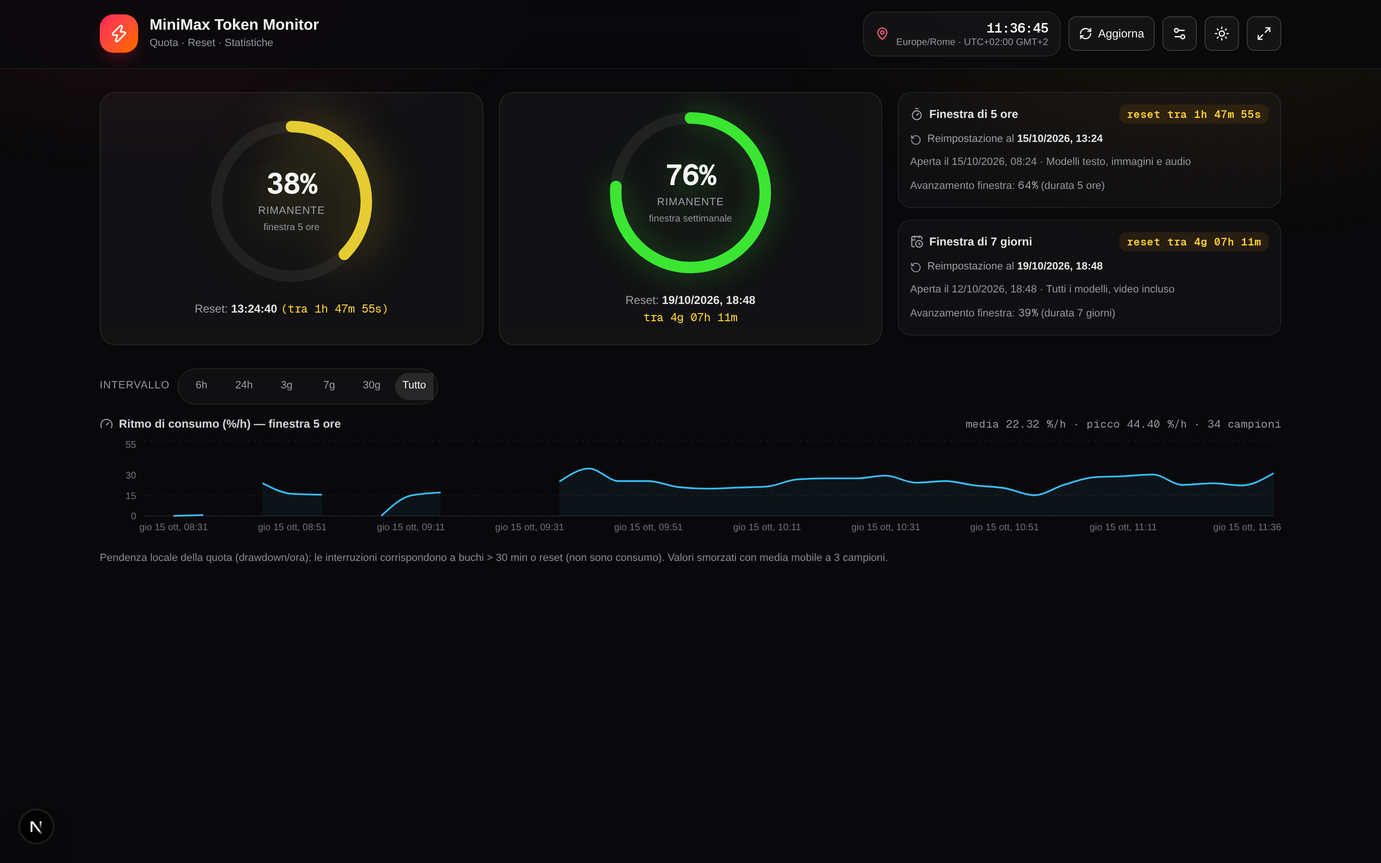
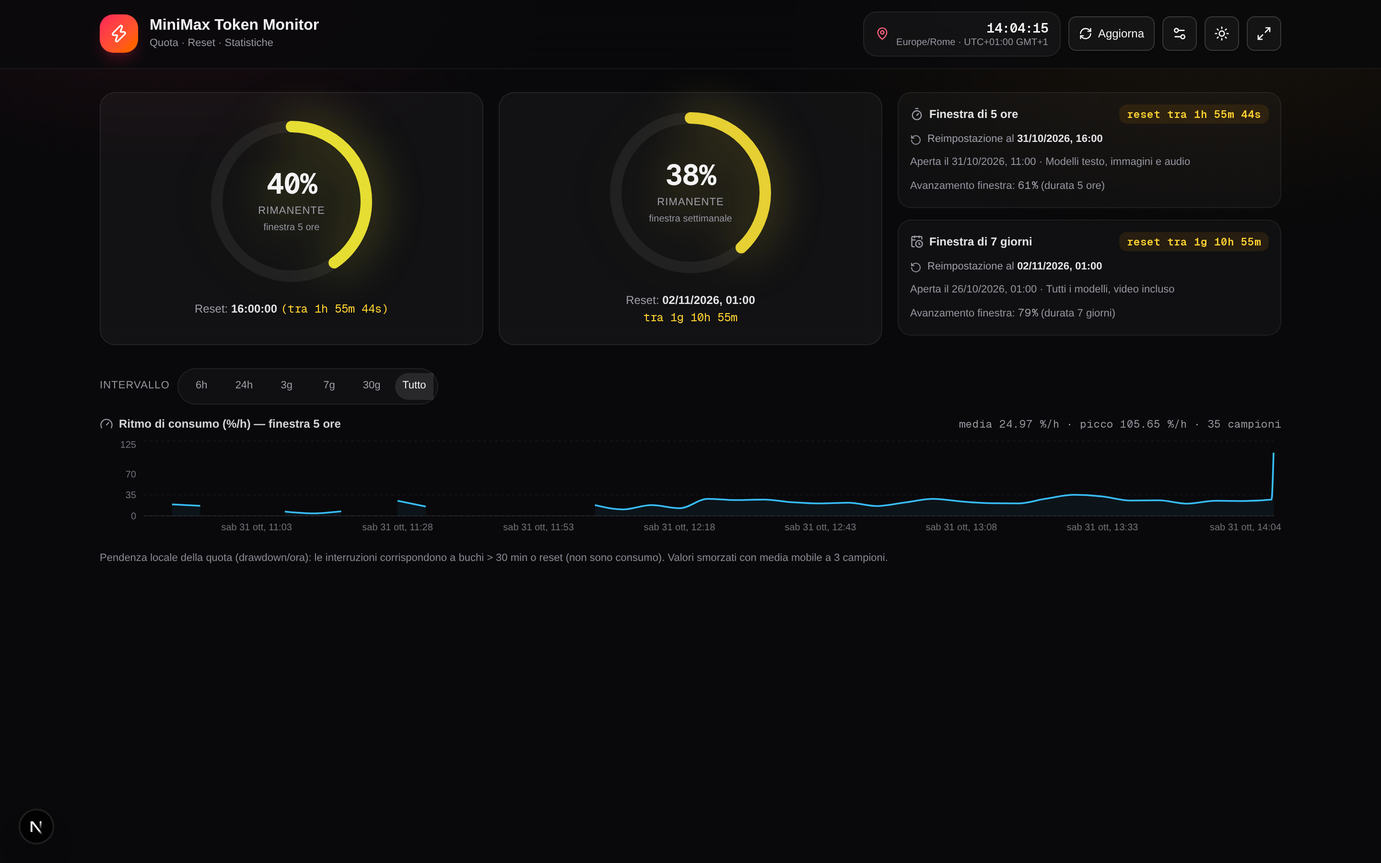
I134 — asset visivi del README allineati a I133: rigenerazione I126-aware + screenshot kiosk. RICHIESTA UTENTE: «verifica se è necessario aggiornare gli screenshot presenti all'interno del readme del progetto per allinearli alle funzionalità attuali del progetto» + «procedi con tutte 4 le proposte».

diff --git a/src/lib/version.ts b/src/lib/version.ts
@@ -12,4 +12,4 @@
  *
  * Formato: «AAAA-MM-GG · I<n>» dove I<n> è l'ultimo item implementato/documentato.
  */
-export const APP_VERSION = "2026-10-31 · I133";
+export const APP_VERSION = "2026-10-31 · I134";

diff --git a/scripts/github-assets.py b/scripts/github-assets.py
@@ -1,10 +1,24 @@
 #!/usr/bin/env python3
-"""Asset visivi per il README GitHub (Task 41).
+"""Asset visivi per il README GitHub (Task 41; rigenerati Task 48; adattati I134).
 
-- Contesto browser FRESH = localStorage vuoto = modalita' DEMO (dati sintetici, sicuri da pubblicare).
-- Rotte API bloccate (ADR-8 + prudenza): usage proxy, history, events, summary -> nessun dato reale
-  ne' scritture durante la cattura.
-- Screenshot retina (dsf=2) in docs/assets/, frame del tour GIF (dsf=1) in scripts/gif-frames/.
+I134 — due adattamenti all'evoluzione dell'app:
+1. DEMO OPT-IN (I126): dal 20/10 un contesto browser FRESH NON mostra più la demo
+   (era il presupposto della cattura originale) ma la scheda di configurazione
+   («Inserisci la chiave» / «Prova la demo»). Ogni passata ora CLICCA «Prova la
+   demo» e verifica il badge «dati simulati» PRIMA di catturare: la demo resta
+   una scelta esplicita, anche nelle catture.
+2. CATTURA KIOSK (I87/I132/I133): nuova passata su `/?kiosk=1` con lo stato
+   kiosk seminato in localStorage (rotazione attiva, 30 s) — lo screenshot
+   `modalita-kiosk.png` mostra la barra «Rotazione tra schermate» con il
+   countdown «prossima schermata tra Ns» e l'hint del ciclo.
+
+Invariato (Task 41/48):
+- Contesto browser FRESH = localStorage vuoto → scheda I126 → click demo (dati
+  sintetici, sicuri da pubblicare; nessuna chiave reale mai inserita).
+- Rotte API bloccate (ADR-8 + prudenza): usage proxy, history, events, summary
+  → nessun dato reale ne' scritture durante la cattura.
+- Screenshot retina (dsf=2) in docs/assets/, frame del tour GIF (dsf=1) in
+  scripts/gif-frames/.
 """
 import asyncio
 from pathlib import Path
@@ -15,6 +29,14 @@ ROOT = Path("/home/z/my-project")
 OUT = ROOT / "docs" / "assets"
 TMP = ROOT / "scripts" / "gif-frames"
 BASE = "http://localhost:3000"
+
+# Stato kiosk seminato (chiave di src/lib/kiosk.ts): rotazione attiva a 30 s
+# per mostrare nella cattura countdown I132 e hint I133 del ciclo automatico.
+KIOSK_SEED = (
+    "try{localStorage.setItem('mm-dash-kiosk-v1',"
+    " JSON.stringify({enabled:true,rotation:true,rotationSeconds:30,nightDim:false}))"
+    "}catch(e){}"
+)
 
 # ADR-8 / prudenza: nessuna chiamata a proxy, archivio, eventi, summary durante la cattura
 BLOCK = [
@@ -28,6 +50,37 @@ BLOCK = [
 async def block_all(ctx):
     for pat in BLOCK:
         await ctx.route(pat, lambda r: asyncio.ensure_future(r.abort()))
+
+
+async def attiva_demo(page, contesto: str) -> bool:
+    """I126: attiva la demo con un click esplicito sulla scheda di setup.
+
+    Il rilevamento usa il BOTTONE «Prova la demo»: la copia della scheda I126
+    contiene lei stessa «dati simulati» («…oppure prova la modalità demo con
+    dati simulati»), quindi il testo del body da solo non certifica nulla.
+    Se il bottone esiste la demo NON è attiva e va cliccato; se è assente, il
+    badge «dati simulati» dell'header distingue la demo attiva da una pagina
+    inattesa. Restituisce True se la demo risulta attiva a fine chiamata.
+    """
+    # I126: `needsSetup` richiede `mounted` — una prima lettura può cadere sullo
+    # skeleton SSR: due tentativi con attesa coprono l'idratazione del client.
+    setup = page.get_by_role("button", name="Prova la demo")
+    for _ in range(2):
+        if await setup.count() > 0:
+            print(f"[{contesto}] scheda di setup I126 presente — click su «Prova la demo»")
+            await setup.first.click(timeout=15000)
+            await page.wait_for_timeout(5000)  # generazione demo I125 + count-up anelli
+            body = await page.inner_text("body")
+            ok = "dati simulati" in body
+            print(f"[{contesto}] badge «dati simulati» dopo il click: {ok}")
+            return ok
+        await page.wait_for_timeout(2500)
+    body = await page.inner_text("body")
+    if "dati simulati" in body:
+        print(f"[{contesto}] demo già attiva (badge presente, nessun bottone di setup) — nessun click")
+        return True
+    print(f"[{contesto}] ATTENZIONE: né scheda di setup né badge demo — pagina inattesa")
+    return False
 
 
 async def main():
@@ -48,10 +101,11 @@ async def main():
         page = await ctx.new_page()
 
         await page.goto(BASE, wait_until="networkidle")
+        await attiva_demo(page, "dashboard")
         await page.wait_for_timeout(5000)  # count-up anelli + generazione demo
 
         body = await page.inner_text("body")
-        print("DEMO MODE presente nel body:", "demo" in body.lower())
+        print("DEMO MODE presente nel body:", "dati simulati" in body)
         print("Titolo pagina:", await page.title())
 
         await page.screenshot(path=str(OUT / "hero-dashboard.png"))
@@ -65,12 +119,43 @@ async def main():
             await page.screenshot(path=str(OUT / f"sezione-{sec}.png"))
             print(f"OK sezione-{sec}.png")
 
-        # modalita' compatta (widget)
+        # modalita' compatta (widget) — STESSO CONTESTO della dashboard: la demo
+        # è già stata attivata con il click I126 (settings salvati nel localStorage
+        # del contesto). Il widget compact non mostra né scheda di setup né badge:
+        # il probe affidabile è il CONTENUTO (le finestre principali del widget I73;
+        # durante lo skeleton SSR «Finestra di 5 ore» non è ancora nel body).
         await page.goto(BASE + "/?compact=1", wait_until="networkidle")
         await page.wait_for_timeout(4500)
+        body_c = await page.inner_text("body")
+        print("COMPACT widget «Finestra di 5 ore» presente:", "Finestra di 5 ore" in body_c)
         await page.screenshot(path=str(OUT / "modalita-compatta.png"))
         print("OK modalita-compatta.png")
         await ctx.close()
+
+        # ---------- PASSATA 1-bis (I134): modalità kiosk/TV (dsf=2) ----------
+        # Stato kiosk seminato PRIMA del load: rotazione attiva → la barra mostra
+        # «Rotazione tra schermate», il countdown «prossima schermata tra Ns» (I132)
+        # e l'hint del ciclo automatico (I133): la vista più rappresentativa.
+        ctx_k = await browser.new_context(
+            viewport={"width": 1440, "height": 900},
+            device_scale_factor=2,
+            locale="it-IT",
+            timezone_id="Europe/Rome",
+        )
+        await ctx_k.add_init_script(KIOSK_SEED)
+        await block_all(ctx_k)
+        page_k = await ctx_k.new_page()
+
+        await page_k.goto(BASE + "/?kiosk=1", wait_until="networkidle")
+        await attiva_demo(page_k, "kiosk")
+        await page_k.wait_for_timeout(6000)  # demo + count-up + countdown visibile
+
+        body_k = await page_k.inner_text("body")
+        print("KIOSK barra «Rotazione tra schermate»:", "Rotazione tra schermate" in body_k)
+        print("KIOSK countdown «prossima schermata tra»:", "prossima schermata tra" in body_k)
+        await page_k.screenshot(path=str(OUT / "modalita-kiosk.png"))
+        print("OK modalita-kiosk.png")
+        await ctx_k.close()
 
         # ---------- PASSATA 2: tour GIF (dsf=1) ----------
         ctx2 = await browser.new_context(
@@ -82,6 +167,7 @@ async def main():
         await block_all(ctx2)
         pg = await ctx2.new_page()
         await pg.goto(BASE, wait_until="networkidle")
+        await attiva_demo(pg, "gif")
         await pg.wait_for_timeout(5000)
 
         height = await pg.evaluate("document.documentElement.scrollHeight")

diff --git a/docs/04-stato-avanzamento.md b/docs/04-stato-avanzamento.md
@@ -220,6 +220,7 @@ F7 persistenza storico server (I16) · F8 persistenza eventi (I27).
 | I131 | Sparkline per le righe di evoluzione (usabilità al crescere del campione) | Usabilità | ✅ | Eseguita 20/10 su «procedi con sparkline» (autorizzazione al suggerimento formulato a chiusura I130: «sparkline al posto delle chip testuali se i punti crescono» — lo step che l'utente aveva rinviato con «poi valuteremo l'altro step successivamente»). **La proposta**: le righe di evoluzione (I128 indice, I129 ritmo/spreco, I130 consumo) mostrano le chip «n → valore» troncate agli ULTIMI 8 punti con «…» — al crescere del campione la storia si perde dietro l'ellipsis e la sequenza di numeri è illeggibile d'un fiato; una sparkline mostra la FORMA di tutta la serie a colpo d'occhio. **Implementazione lib**: NUOVO `src/lib/sparkline.ts` con `puntiSparkline(values, w, h, pad)` — funzione PURA (testabile senza DOM) che normalizza su min/max con y INVERTITA (l'origine del sistema di coordinate SVG è in ALTO a sinistra: invertire il segno è l'errore classico che disegna la serie al contrario); serie piatta (min === max) → tutti i punti a metà altezza (una media costante è una lettura legittima, non un errore); meno di 2 punti → array vuoto (una retta non è una forma; le righe hanno comunque il gate ≥2). **Implementazione UI**: componente `Sparkline` in analysis-panel.tsx — svg inline 96×24 (allineata al testo 11px delle righe), polilinea + ultimo punto cerchiato, `currentColor` per ereditare il tono della riga (indice colorato per soglia ≥70/≥40, medie neutre), aria-label/title con la serie COMPLETA dei valori esatti che le chip mostravano (i valori intermedi restano accessibili a hover e screen reader). Le DUE righe (`PrevedibilitaEvoLine` e `EvoluzioneMediaLine`) sostituiscono le chip troncate con la sparkline e conservano la chip FINALE «n → valore» col punto corrente esatto + ultimo Δ + salti max: nessuna informazione persa, nessun troncamento. **Test +4** (NUOVO tests/lib/sparkline.test.ts, valori chiusi verificati a mano: normalizzazione [0,50,100] → x 2/48/94 e y 22/12/2 con y invertita; serie piatta [5,5,5,5] → y = h/2 = 12 con x ancora distribuita; 0 e 1 punto → array vuoto; viewport custom 200×40 pad 5 su [70,92,48] → x 5/100/195 e y 20/5/35 — il PRIMO punto non è né in alto né in basso: la scala è min/max, NON primo/ultimo come sarebbe con start−end) → suite **633/633** (2300 asserzioni). Audit +4 check I131 → **667/667** PASS 0 scoperte. DOCS: docs/04 §3+§8, docs/06 §5.7 nota I131, README (badge/contatori/§Analisi/§Qualità), versione «2026-10-20 · I131»; worklog Task 84 |
 | I132 | Kiosk: rotazione sempre visibile + countdown del timer (bug «il flag rotazione non ha alcun effetto») | Correzione | ✅ | Eseguita 31/10 su «controlla e fixa» (bug riportato dall'utente in due messaggi: «nella modalità kiosk il flag rotazione con timer non ha alcun effetto» e, dopo il test «con la finestra in foreground», «non accadeva nulla»). **Diagnosi con riproduzioni reali** (dev locale + produzione via browser automation, profilo pulito): la logica del timer I87 è CORRETTA — l'effetto `setInterval` con `nextKioskView` cambia vista davvero (Quote → Grafico → Analisi osservate su entrambi gli ambienti). **La causa**: il branch kiosk era DENTRO il ternario `snapshot ?`: senza snapshot in memoria (primo fetch in corso, errore API, quota esaurita, dispositivo senza chiave) l'area centrale ereditava i rami loading/null della dashboard — spinner o PAGINA VUOTA — e lo stato `kioskView` cambiava ma lo schermo no: la rotazione sembrava morta. **Fix 1 — kiosk sempre vivo**: il branch `kioskAttivo` sale di livello (dopo `!mounted`, prima di `snapshot ?`) con stato d'attesa dedicato «Kiosk attivo — in attesa dei dati» (spinner se `loading`, spiegazione altrimenti); le viste compaiono da sole al primo dato, la rotazione e i comandi della barra restano attivi in ogni stato. **Fix 2 — countdown del timer**: nuovo stato `prossimaRotazione` (epoch del prossimo cambio vista, armato dal microtask iniziale dell'effetto — pattern I90, mai setState sincrono in corpo d'effetto — e riprogrammato a ogni tick dell'intervallo, così il countdown resta veritiero anche dopo un cambio vista manuale che NON riparte); `CountdownRotazione` in kiosk-bar.tsx è una foglia VIVA abbonata all'orologio 1 Hz I96 (la pagina non re-renderizza al secondo): «prossima vista tra 12s» dà il riscontro continuo che prima mancava del tutto con intervalli fino a 5 minuti. **Lib**: `intervalloRotazioneMs` + `prossimaRotazioneEpoch` estratti dal `Math.max(5, …)` inlinea I87 con `KIOSK_ROTATION_MIN_SECONDS=5`. **Test +7** (NUOVO tests/lib/kiosk-rotazione.test.ts: ms sui 5 valori del selettore, clamp su 0/negativi/2, matematica chiusa dell'epoch, coerenza now+intervallo; +3 in kiosk-bar.test.tsx: countdown armato → «prossima vista tra \d+s», scadenza null → assente, rotazione spenta → assente) → suite **640/640** (2325 asserzioni). Audit +4 check I132 → **671/671** PASS 0 scoperte. DOCS: docs/04 §3+§8, docs/03 (mappa file kiosk), README (badge/contatori/§Monitoraggio), versione «2026-10-31 · I132»; worklog Task 85 |
 | I133 | Kiosk: selettore rotazione più comprensibile («Rotazione tra schermate», hint del funzionamento, title sull'intervallo) | Usabilità | ✅ | Eseguita 31/10 su richiesta esplicita dell'utente («nella modalità kiosk adesso scriverei rotazione tra schermate, rotazioni tra visuali al posto di rotazione. rendi più comprensibile il funzionamento del selettore e poi aggiorna la documentazione»). **Il problema**: l'etichetta era il solo «Rotazione» — non diceva CHE COSA ruotasse (le schermate Quote → Grafico → Analisi) né cosa succedesse con lo switch spento; l'ordine di rotazione non compariva da nessuna parte nella UI. **Implementazione** (SOLO testi della barra, zero logica toccata): etichetta visibile «Rotazione tra schermate»; hint visibile NEI DUE STATI — con rotazione attiva «ciclo automatico: Quote → Grafico → Analisi, poi ricomincia» (l'informazione che mancava: cosa ruota, in che ordine, che si ripete), con rotazione spenta «rotazione spenta: cambio schermata solo coi bottoni» (distingue il solo cambio manuale) — nascosto sugli schermi stretti (xl:inline) come le altre etichette; selettore dell'intervallo con aria-label «Intervallo di rotazione delle schermate» e title «Ogni quanto cambia la schermata durante la rotazione automatica»; switch con aria-label che dichiara l'ordine «Rotazione automatica tra le schermate (Quote → Grafico → Analisi)»; gruppo dei bottoni manuali «Schermata kiosk» (era «Vista kiosk»); countdown I132 allineato a «prossima schermata tra Ns» (era «prossima vista tra»); stato d'attesa dati e commenti di page.tsx con la stessa terminologia. **Terminologia unificata**: «schermata» (= le visuali Quote, Grafico, Analisi) per coprire entrambe le locuzioni della richiesta. **Test +4** (I133 in kiosk-bar.test.tsx: etichetta esplicita + aria-label switch; hint ciclo con rotazione attiva e assenza hint «spento»; hint spento con rotazione off e assenza hint di ciclo; title del selettore) + allineamento dei test I87/I132 alle nuove etichette → suite **644/644** (2332 asserzioni). Audit +5 check I133 → **676/676** PASS 0 scoperte. DOCS: docs/04 §3+§8, docs/03 (mappa kiosk), README (badge/contatori/§Funzionalità/§Qualità), versione «2026-10-31 · I133»; worklog Task 86 |
+| I134 | Asset visivi del README allineati a I133: cattura I126-aware + screenshot kiosk | Documentazione | ✅ | Eseguita 31/10 su «procedi con tutte 4 le proposte» (autorizzazione alle 4 proposte formulate a chiusura della verifica «verifica se è necessario aggiornare gli screenshot presenti all'interno del readme del progetto per allinearli alle funzionalità attuali»). **La verifica**: asset catturati il 15/10 alle 09:36 (versione I106, commit 268c257) contro una produzione a I133 — 27 consegne di scarto; conferma visiva sui PNG: dati demo pre-I125 (finestra 5h aperta 08:24, reset 13:24:20, curva liscia senza reset ai confini), tabella cicli senza colonna «Reset finestra» (I124), nessuna strip Prevedibilità con base dichiarata (I127) né evoluzioni/sparkline (I128–I131), nessuna immagine del kiosk (I87/I132/I133); badge e contatori testuali del README invece già allineati. **Il problema nascosto**: lo script di cattura era ROTTO da I126 — il presupposto «browser fresco = demo» non vale più (scheda di setup al primo avvio): rieseguito così com'è avrebbe prodotto 5 screenshot della scheda. **Implementazione** (solo script di cattura + asset: nessun src/ toccato salvo il marcatore di versione): (1) attiva_demo() con click esplicito su «Prova la demo» e verifica del badge «dati simulati» dopo il click — il badge da solo NON basta: la copia della scheda I126 contiene lei stessa «dati simulati» (primo run beccato: «demo già attiva» con la scheda in scatto); doppio tentativo per l'idratazione (needsSetup richiede mounted — secondo run beccato: compact caduto sullo skeleton SSR); (2) compact nello STESSO contesto già in demo (viaggio utente reale: opt-in una volta, poi widget) con probe sul contenuto («Finestra di 5 ore» — il widget non mostra né scheda né badge); (3) NUOVA cattura modalita-kiosk.png con stato kiosk seminato via add_init_script (rotazione attiva a 30 s) e verifica nel body di «Rotazione tra schermate» (I133) e «prossima schermata tra» (I132) prima dello scatto; (4) rigenerati 5 PNG retina (hero, grafico, analisi, diagnostica, compatta) + demo.gif riassemblata (19 frame, 896 KB), cattura definitiva rieseguita DOPO il bump versione (la barra kiosk e il footer mostrano APP_VERSION) e verificata a vista: reset demo al blocco fisso UTC 16:00:00 con curva a sega (I125), verdetto «Al ritmo della finestra in corso» (I127), barra kiosk completa (I132/I133). **Nota I124**: in demo l'analisi di lungo periodo mostra lo stato vuoto PER COSTRUZIONE (punti demo esclusi da tutte le analisi) — la didascalia README lo dichiara. Nessun dato reale: rotte API bloccate (ADR-8), nessuna chiave, nessuna scrittura su produzione. Audit +3 check I134 → **679/679** PASS; suite invariata 644/644 (2332 asserzioni); worklog Task 87 |
 
 ---
 
@@ -325,6 +326,7 @@ F7 persistenza storico server (I16) · F8 persistenza eventi (I27).
 
 | Data | File | Cambiamento |
 |------|------|-------------|
+| 2026-10-31 | `scripts/github-assets.py` (attiva_demo I126-aware: click «Prova la demo» + badge con doppio tentativo di idratazione; compact nello stesso contesto demo con probe sul contenuto; cattura kiosk con stato seminato e verifica barra/countdown), `docs/assets/` (5 PNG retina + NUOVO `modalita-kiosk.png` + `demo.gif` 19 frame, tutti rigenerati e verificati a vista), `README.md` (§Screenshot: riga kiosk + nota I124 sull'analisi vuota in demo; badge audit 676→679; §Qualità 679 + presidio I134), `scripts/verifiche/audit-implementazioni.mjs` (+3 check I134), `docs/04` (§3+§8), `src/lib/version.ts` (2026-10-31 · I134), `worklog.md` (Task 87) | **I134 — asset visivi del README allineati a I133** (verifica utente «verifica se è necessario aggiornare gli screenshot presenti all'interno del readme» + autorizzazione «procedi con tutte 4 le proposte»): gli asset erano fermi a I106 (15/10) — 27 consegne di scarto — e lo script di cattura era rotto da I126 (browser fresco = scheda di setup, non più demo); ora ogni cattura attiva la demo con un click esplicito e il kiosk I87/I132/I133 ha la sua immagine con barra, hint del ciclo e countdown; in demo l'analisi resta volutamente vuota (I124) e la didascalia lo dichiara. Solo script + asset + docs: nessun src/ toccato salvo il marcatore di versione |
 | 2026-10-31 | `src/components/kiosk-bar.tsx` (etichetta «Rotazione tra schermate» al posto del solo «Rotazione»; hint del funzionamento nei due stati: «ciclo automatico: Quote → Grafico → Analisi, poi ricomincia» / «rotazione spenta: cambio schermata solo coi bottoni»; SelectTrigger con aria-label «Intervallo di rotazione delle schermate» + title esplicativo; switch con aria-label «Rotazione automatica tra le schermate (Quote → Grafico → Analisi)»; gruppo manuale «Schermata kiosk»; countdown «prossima schermata tra Ns»), `src/app/page.tsx` (stato d'attesa dati e commenti con terminologia «schermata»), `src/lib/kiosk.ts` (commento campo rotation), `tests/components/kiosk-bar.test.tsx` (+4 test I133 + allineamento testi I87/I132), `scripts/verifiche/audit-implementazioni.mjs` (+5 check I133, contatori 640/2325→644/2332, badge test-644_pass), `README.md` (badge test 640→644 e audit 671→676, §Funzionalità +nota I133, §Qualità 644/2332 + presidio I133), `docs/03` (mappa kiosk), `src/lib/version.ts` (2026-10-31 · I133), `worklog.md` (Task 86) | **I133 — kiosk: selettore rotazione più comprensibile** (richiesta utente «scriverei rotazione tra schermate, rotazioni tra visuali al posto di rotazione. rendi più comprensibile il funzionamento del selettore e poi aggiorna la documentazione»). Il selettore ora spiega se stesso: cosa ruota (le schermate/visuali Quote → Grafico → Analisi), in che ordine, che si ripete, e cosa succede quando è spento (solo cambio manuale); title esplicativo sull'intervallo, terminologia «schermata» unificata in tutta la barra; ZERO logica toccata — solo testi, aria-label e title |
 | 2026-10-31 | `src/lib/kiosk.ts` (`KIOSK_ROTATION_MIN_SECONDS=5` + `intervalloRotazioneMs` + `prossimaRotazioneEpoch` — helper puri estratti dal clamp inlinea I87), `src/app/page.tsx` (stato `prossimaRotazione` armato da microtask I90 e riprogrammato a ogni tick; branch `kioskAttivo` FUORI dal ternario `snapshot ?` con stato d'attesa «Kiosk attivo — in attesa dei dati» + spinner se loading), `src/components/kiosk-bar.tsx` (prop `prossimaRotazione` + `CountdownRotazione` foglia 1 Hz I96: «prossima vista tra Ns», visibile solo con rotazione attiva), `tests/lib/kiosk-rotazione.test.ts` (NUOVO, +4 test), `tests/components/kiosk-bar.test.tsx` (+3 test I132), `scripts/verifiche/audit-implementazioni.mjs` (+4 check I132, contatori 633/2300→640/2325, badge test-640_pass), `README.md` (badge test 633→640 e audit 667→671, §Monitoraggio +nota I132, §Qualità 640/2325), `docs/03` (mappa file kiosk aggiornata), `src/lib/version.ts` (2026-10-31 · I132), `worklog.md` (Task 85) | **I132 — kiosk: rotazione sempre visibile + countdown del timer** (bug utente «il flag rotazione con timer non ha alcun effetto», test anche «con la finestra in foreground»). Diagnosi con riproduzioni reali (dev + produzione, browser automation): il timer I87 FUNZIONA (viste osservate ruotare su entrambi gli ambienti con profilo pulito); il difetto era il branch kiosk DENTRO `snapshot ?` — senza snapshot (primo fetch, errore API, quota esaurita, dispositivo senza chiave) l'area centrale restava spinner/NULL e `kioskView` cambiava a schermo fermo. Fix: branch kiosk promosso prima di `snapshot ?` con stato d'attesa dedicato + countdown del timer nella barra come riscontro continuo (fino a ieri assente del tutto) |
 | 2026-10-20 | `src/lib/sparkline.ts` (NUOVO: `puntiSparkline` — geometria pura normalizzata su min/max con y invertita, serie piatta a metà, <2 punti → vuoto), `src/components/analysis-panel.tsx` (componente `Sparkline` svg 96×24 inline con polilinea + ultimo punto cerchiato, currentColor, aria-label/title con la serie completa; `PrevedibilitaEvoLine` e `EvoluzioneMediaLine` sostituiscono le chip troncate a 8 con sparkline + chip finale «n → valore», slice(-8) e «…» rimossi), `tests/lib/sparkline.test.ts` (NUOVO, +4 test), `scripts/verifiche/audit-implementazioni.mjs` (+4 check I131, contatori 629/2288→633/2300, badge test-633_pass), `README.md` (badge test 629→633 e audit 663→667, §Analisi +nota I131, §Qualità 633/2300), `src/lib/version.ts` (2026-10-20 · I131), `worklog.md` (Task 84) | **I131 — sparkline per le righe di evoluzione**. Su «procedi con sparkline» (autorizzazione allo step rinviato a chiusura I130). Le quattro righe di evoluzione non troncano più la serie a 8 chip con «…»: la forma di TUTTI i punti si legge nella sparkline, il valore corrente esatto resta nella chip finale e i valori intermedi nell'aria-label. Geometria pura testata: y invertita (origine SVG in alto), serie piatta a metà altezza, scala min/max e non primo/ultimo (presidiata in test) |

diff --git a/README.md b/README.md
@@ -15,7 +15,7 @@ quote live, countdown di reset, analisi d'uso e avvisi, con tutti gli orari nel 
 [![CI](https://github.com/amedeo82/MiniMax-Token-Monitor/actions/workflows/ci.yml/badge.svg)](https://github.com/amedeo82/MiniMax-Token-Monitor/actions/workflows/ci.yml)
 [![Live Demo](https://img.shields.io/badge/Live_Demo-online-2EA44F?logo=vercel&logoColor=white)](https://minimax-token-monitor.vercel.app/)
 [![Test 644 pass](https://img.shields.io/badge/test-644_pass-31C48D)](tests)
-[![Audit 676 PASS](https://img.shields.io/badge/audit-676_PASS-31C48D)](scripts/verifiche)
+[![Audit 679 PASS](https://img.shields.io/badge/audit-679_PASS-31C48D)](scripts/verifiche)
 [![PWA offline-first](https://img.shields.io/badge/PWA-offline--first-5A0FC8)](#funzionalit%C3%A0)
 [![Fuso orario](https://img.shields.io/badge/fuso-Europe%2FRome-4285F4)](#)
 
@@ -48,12 +48,19 @@ giorno della settimana, media mobile e proiezione di esaurimento.
 |---|---|
 | ![Dashboard con anelli di quota e countdown](docs/assets/hero-dashboard.png) | ![Grafico storico con media mobile e cicli](docs/assets/sezione-grafico.png) |
 
-| Analisi di lungo periodo (heatmap, calendario, cicli) | Modalità compatta `?compact=1` (widget) |
+| Diagnostica del monitor (in demo l'analisi resta volutamente vuota — I124) | Modalità compatta `?compact=1` (widget) |
 |---|---|
-| ![Analisi di lungo periodo](docs/assets/sezione-analisi.png) | ![Modalità compatta](docs/assets/modalita-compatta.png) |
+| ![Analisi in demo con punti simulati esclusi (I124) e Diagnostica del monitor](docs/assets/sezione-analisi.png) | ![Modalità compatta](docs/assets/modalita-compatta.png) |
+
+| Modalità kiosk/TV `?kiosk=1` — schermate Quote/Grafico/Analisi con rotazione automatica (I132/I133) |
+|---|
+| ![Modalità kiosk: barra con «Rotazione tra schermate», hint del ciclo automatico e countdown](docs/assets/modalita-kiosk.png) |
 
 > Le immagini sono catturate in **modalità demo** (dati simulati): nessun dato reale
-> finisce nel repository. La sezione completa è visibile nel tour GIF in cima alla pagina.
+> finisce nel repository. In demo la sezione Analisi mostra volutamente lo stato
+> vuoto — **i punti simulati sono esclusi da tutte le analisi** (I124): con i dati
+> reali si popola di cicli, heatmap, calendario ed evoluzioni con sparkline
+> (I128–I131). La sezione completa è visibile nel tour GIF in cima alla pagina.
 
 ---
 
@@ -125,7 +132,7 @@ giorno della settimana, media mobile e proiezione di esaurimento.
 
 **Qualità** (I50/I55)
 - **Suite test automatica**: 644 test / 2332 asserzioni (`bun test`) su parser, tempo, cicli, **cicli a finestre ufficiali con casi reali di produzione (I124)**, **fedeltà demo alle finestre verificate (I125)**, **demo opt-in: default FALSE e niente forzamento silenzioso al salvataggio (I126)**, **proiezione sulla finestra corrente (ritmo di sessione) e caveat campione ridotto nella Prevedibilità (I127)**, **evoluzione dell'indice Prevedibilità al crescere del campione (I128)**, **evoluzione di ritmo medio e spreco medio per ciclo (I129)**, **evoluzione del consumo medio per ciclo — drawdown robusto ai recuperi e consumo nullo nel campione (I130)**, **geometria della sparkline: y invertita, serie piatta, scala min/max (I131)**, **rotazione kiosk: intervallo con clamp, epoch del prossimo cambio e countdown della barra (I132)**, **selettore kiosk comprensibile: etichetta «Rotazione tra schermate», hint ciclo/spento, title intervallo (I133)**, eventi, backoff, **rete/visibilità del poller (I100)**, **banner aggiornamento PWA (I101)**, **downsampling (I68)**, filtri intervallo/eventi, modalità compatta, **kiosk (I87)**, **multi-regione (I53)**, anomalie/campionamento/EWMA, fallback endpoint, **flusso di stampa (I75)**, **storico per-modello (I82)**, **punto flat general (I91)**, **normalizzazione risposte archivio (I92)**, **fetta recente delle GET di archivio (I93, route-level con db mockato)**, **quota storage con persistJson (I98)**, **orologio condiviso 1 Hz e foglie vive del render (I96)**, **contratti HTTP di archivi/proxy/summary (I99)**, **guard ADMIN_TOKEN + rate limit + header sicurezza (I95)**, **factory della persistenza portabile Turso/SQLite (I106)**, **diagnostica persistenza e pannello Impostazioni→Dati (I107)**, **gate dello schema incorporato su tutte le rotte DB (I107-fix4)**, **manutenzione database con e2e su entrambe le codifiche DateTime (I111), registro delle esecuzioni con e2e motore reale (I117) e rimozione selettiva dei punti demo con backup/dryRun (I122)**, **campionatore passivo (I49)**, parità TS↔Service Worker **e componenti UI (I81: QuotaRing, SectionNav, SectionBoundary, EventLog + I74 BottomNav + I78 ThemeToggle + I87 KioskBar + I53 RegionAltPanel + I118 pannello Registro manutenzione con testing-library + happy-dom)**, **livello di log Prisma per ambiente e anti-fingerprinting X-Powered-By (I119, audit sicurezza)**, **token admin lato client: header sulle 6 scritture, sonda di identità 401/400 e storage a prova di guasto (I120, chiusura §5.2 dell'audit) e perimetro completo con la POST del proxy usage (I121)**, **marcatura source lungo tutta la catena storici + azione «Svuota storico locale» (I124)**, **demo ancorata alle finestre verificate + piano attuale documentato dalle fonti ufficiali (I125)**
-- **Audit di riconciliazione** (`scripts/verifiche/audit-implementazioni.mjs`): 676 verifiche dichiarative su file/simboli/wiring/assenze con coverage check degli item ✅ — ogni distanza tra documentazione e codice rompe l'audit; dal I111 include il check «versione» che confronta `APP_VERSION` con il changelog canonico (docs/04 §8): **la versione del footer non può più restare indietro**; dal I114 presidia anche le decisioni sulle dipendenze (eslint 10 adottato, typescript su 5.9.x in attesa del supporto typescript-eslint a TS 7.1+, inventario dichiarato↔installato via `scripts/verifiche/audit-deps-inventario.mjs`; dal I115 presidia il major prisma 7 (adapter obbligatorio anche sul `file:` locale, URL fuori dallo schema, `prisma.config.ts`, flag CLI `--to-schema`; dal I116 presidia la rigenerazione del client nel build — `postinstall` + script `build` — dopo l'errore di deploy Vercel col client stantio dell'era prisma 6; dal I117 presidia il registro delle esecuzioni della manutenzione; dal I118 presidia il pannello di visualizzazione del registro nell'app; dal I119 presidia l'audit sicurezza: niente fingerprinting, log Prisma dipendenti dall'ambiente, avvertimento SSRF sul Caddyfile, report docs/11 presente; dal I120 presidia il token admin client: modulo, header sulle 6 scritture, sonda senza scritture reali, test di contratto e di componente; dal I121 presidia il perimetro COMPLETO del token: la POST del proxy usage allega l'header — verifica statica sul sorgente; dal I122 presidia l'azione di manutenzione «rimuovi-demo» (lib, schema, route, test, e2e motore reale); dal I123 presidia il cleanup esplicito in OGNI test di componente — bomba d'ordine QuotaRing disarmata; dal I124 presidia l'analisi a finestre ufficiali (segmentazione, allineamenti UTC verificati sui dati di produzione, colonna «Reset finestra», esclusione demo su tutte le superfici d'analisi, marcatura source end-to-end, azione «Svuota storico locale»); dal I125 presidia la fedeltà demo alle finestre verificate (blocco fisso UTC, settimana lunedì 00:00 UTC, clamp percentuali, curva a sega, matrice I48 con G13/G9, sezioni docs 01 §11.3 / 02 §11); dal I126 presidia il default demo opt-in (FALSE), l'assenza del forzamento demo al salvataggio, il primo avvio senza fetch/dialog e la needsSetup gated su mounted; dal I127 presidia la proiezione di sessione (computeSessionTrend su blocco fisso UTC corrente/settimana corrente), l'etichetta esplicita della base nel verdetto e nella pace, e il caveat «campione ridotto» della Prevedibilità; dal I128 presidia l'evoluzione dell'indice Prevedibilità (serie cumulativa evoluzionePrevedibilita, riga «Evoluzione dell'indice» nella strip, wiring memoizzato); dal I129 presidia l'evoluzione delle medie per ciclo (evoluzioneMedia generica, EvoluzioneMediaLine con Δ neutro, wiring ritmo+spreco); dal I130 presidia l'evoluzione del consumo medio (memo evoConsumo sul drawdown `c.consumed` senza filtro null, riga «Evoluzione del consumo medio», coerenza col KPI avgConsumed in test); dal I131 presidia la sparkline delle righe di evoluzione (geometria pura `puntiSparkline`, componente `Sparkline` con wiring su ENTRAMBE le righe senza troncamento, file test dedicato); dal I132 presidia il fix kiosk (helper puri `intervalloRotazioneMs`/`prossimaRotazioneEpoch` con clamp, `CountdownRotazione` nella barra, branch kiosk FUORI dal branch snapshot, file test dedicato); dal I133 presidia la chiarezza del selettore kiosk («Rotazione tra schermate» invece del solo «Rotazione», hint del ciclo automatico e dello stato spento, title esplicativo dell'intervallo, countdown allineato a «prossima schermata tra»)
+- **Audit di riconciliazione** (`scripts/verifiche/audit-implementazioni.mjs`): 679 verifiche dichiarative su file/simboli/wiring/assenze con coverage check degli item ✅ — ogni distanza tra documentazione e codice rompe l'audit; dal I111 include il check «versione» che confronta `APP_VERSION` con il changelog canonico (docs/04 §8): **la versione del footer non può più restare indietro**; dal I114 presidia anche le decisioni sulle dipendenze (eslint 10 adottato, typescript su 5.9.x in attesa del supporto typescript-eslint a TS 7.1+, inventario dichiarato↔installato via `scripts/verifiche/audit-deps-inventario.mjs`; dal I115 presidia il major prisma 7 (adapter obbligatorio anche sul `file:` locale, URL fuori dallo schema, `prisma.config.ts`, flag CLI `--to-schema`; dal I116 presidia la rigenerazione del client nel build — `postinstall` + script `build` — dopo l'errore di deploy Vercel col client stantio dell'era prisma 6; dal I117 presidia il registro delle esecuzioni della manutenzione; dal I118 presidia il pannello di visualizzazione del registro nell'app; dal I119 presidia l'audit sicurezza: niente fingerprinting, log Prisma dipendenti dall'ambiente, avvertimento SSRF sul Caddyfile, report docs/11 presente; dal I120 presidia il token admin client: modulo, header sulle 6 scritture, sonda senza scritture reali, test di contratto e di componente; dal I121 presidia il perimetro COMPLETO del token: la POST del proxy usage allega l'header — verifica statica sul sorgente; dal I122 presidia l'azione di manutenzione «rimuovi-demo» (lib, schema, route, test, e2e motore reale); dal I123 presidia il cleanup esplicito in OGNI test di componente — bomba d'ordine QuotaRing disarmata; dal I124 presidia l'analisi a finestre ufficiali (segmentazione, allineamenti UTC verificati sui dati di produzione, colonna «Reset finestra», esclusione demo su tutte le superfici d'analisi, marcatura source end-to-end, azione «Svuota storico locale»); dal I125 presidia la fedeltà demo alle finestre verificate (blocco fisso UTC, settimana lunedì 00:00 UTC, clamp percentuali, curva a sega, matrice I48 con G13/G9, sezioni docs 01 §11.3 / 02 §11); dal I126 presidia il default demo opt-in (FALSE), l'assenza del forzamento demo al salvataggio, il primo avvio senza fetch/dialog e la needsSetup gated su mounted; dal I127 presidia la proiezione di sessione (computeSessionTrend su blocco fisso UTC corrente/settimana corrente), l'etichetta esplicita della base nel verdetto e nella pace, e il caveat «campione ridotto» della Prevedibilità; dal I128 presidia l'evoluzione dell'indice Prevedibilità (serie cumulativa evoluzionePrevedibilita, riga «Evoluzione dell'indice» nella strip, wiring memoizzato); dal I129 presidia l'evoluzione delle medie per ciclo (evoluzioneMedia generica, EvoluzioneMediaLine con Δ neutro, wiring ritmo+spreco); dal I130 presidia l'evoluzione del consumo medio (memo evoConsumo sul drawdown `c.consumed` senza filtro null, riga «Evoluzione del consumo medio», coerenza col KPI avgConsumed in test); dal I131 presidia la sparkline delle righe di evoluzione (geometria pura `puntiSparkline`, componente `Sparkline` con wiring su ENTRAMBE le righe senza troncamento, file test dedicato); dal I132 presidia il fix kiosk (helper puri `intervalloRotazioneMs`/`prossimaRotazioneEpoch` con clamp, `CountdownRotazione` nella barra, branch kiosk FUORI dal branch snapshot, file test dedicato); dal I133 presidia la chiarezza del selettore kiosk («Rotazione tra schermate» invece del solo «Rotazione», hint del ciclo automatico e dello stato spento, title esplicativo dell'intervallo, countdown allineato a «prossima schermata tra»); dal I134 presidia la pipeline degli asset visivi del README (cattura demo opt-in I126-aware con click esplicito su «Prova la demo» e screenshot della modalità kiosk)
 - **Audit di sicurezza (I119, `docs/11-audit-sicurezza.md`)**: revisione white-box completa — segreti (codice, bundle client, file tracciati, **storia git**), SQL/XSS/command injection, auth/authz con timing-safe, rate limiting/DoS, SSRF, CORS/CSRF, crypto, service worker, dipendenze (`bun audit`: produzione a ZERO), configurazioni. **3 vulnerabilità gestite** (rotazione token Turso della storia — azione utente; log query in produzione; `X-Powered-By`) e presidi permanenti via audit+test: la checklist di ripetizione è in docs/11 §7
 - **Accessibilità sistematica** (I79/I83/I84/**I102**): aria-live, sr-only, focus visibile su nav e skip-link «Salta al contenuto», probe 0 FAIL su 74+ campioni
 - **Verifiche di coerenza riproducibili** (I48/I54): `verifica-i48-demo-vs-api.ts` (matrice campo per campo demo ↔ API reale con invarianti programmatiche — dal I125 **30 campi** con gli allineamenti verificati: G9 settimanale a lunedì 00:00 UTC CHIUSA, G13 blocco fisso della finestra breve NUOVA) e `verifica-i54-live-vs-demo.mjs` (matrice «live ⊇ demo» a 29 dimensioni con evidenze statiche) — esiti su file in `scripts/verifiche/esiti/` a nome stabile

diff --git a/worklog.md b/worklog.md
@@ -1906,3 +1906,23 @@ Work Log:
 Stage Summary:
 - Il selettore della rotazione ora spiega se stesso: cosa ruota (le schermate Quote → Grafico → Analisi), in che ordine, che il ciclo si ripete e che con lo switch spento le schermate cambiano solo a mano coi bottoni — l'ordine di rotazione, prima invisibile, è ora nell'etichetta dello switch, nell'hint e nell'aria-label
 - Zero logica toccata: solo testi, aria-label e title — la matematica I132 del timer e il countdown restano intatti; il cambiamento è presidiato da 5 check audit e 4 test di componente
+
+---
+Task ID: 87
+Agent: main (Super Z)
+Task: «verifica se è necessario aggiornare gli screenshot presenti all'interno del readme del progetto per allinearli alle funzionalità attuali del progetto» + autorizzazione «procedi con tutte 4 le proposte» — asset visivi del README allineati a I133 (I134)
+
+Work Log:
+- VERIFICA ANTI-SESSIONE-PARALLELA (NONO EPISODIO): working tree sporco al primo taglio — 21 file «modificati» che erano SOLO mode change (0 insertions/deletions) + 46 file non tracciati con mtime di inizio ottobre (esperimenti I43/I45, scaffold shadcn, backup/restore, token-tracker: residui dell'era 08/10 mai commessi, verificati «mai nella storia») riapparsi nell'ora corrente (trace_id nuovo = altra sessione attiva sulla sandbox); riconciliato con reset --hard su origin/main b4b0129 (I133) per i mode change; i non tracciati prima ritenuti inerti si sono rivelati INVASIVI (3 test vecchi rompevano tsc con API pre-I67 e sarebbero entrati nella suite) → QUARANTENA locale in node_modules/.quarantena-i134/ (46 file, fuori da git/eslint/bun test, NON cancellati: non sono miei)
+- VERIFICA RICHIESTA: asset fermi al 15/10 09:36 (versione I106, commit 268c257) contro una produzione a I133 — 27 consegne di scarto; conferma visiva sui PNG: dati demo pre-I125 (finestra 5h aperta 08:24, reset 13:24:20, curva liscia senza reset ai confini), tabella cicli senza colonna «Reset finestra» (I124), nessuna strip Prevedibilità con base dichiarata (I127) né evoluzioni/sparkline (I128–I131), nessuna immagine del kiosk (I87/I132/I133); badge e contatori testuali del README invece già allineati (644/676)
+- IL PROBLEMA NASCOSTO: lo script di cattura era ROTTO da I126 — il presupposto «browser fresco = localStorage vuoto = demo» non vale più: la scheda di setup («Inserisci la chiave» / «Prova la demo») è il primo avvio; rieseguito così com'è avrebbe prodotto 5 screenshot della scheda di setup
+- ADATTAMENTO SCRIPT (scripts/github-assets.py): attiva_demo() con click esplicito su «Prova la demo» e verifica del badge «dati simulati» dopo il click — il badge da solo NON basta: la copia della scheda I126 contiene lei stessa «dati simulati» (primo run beccato: «demo già attiva» su tutte le passate con la scheda in scatto); doppio tentativo per l'idratazione (needsSetup richiede mounted — secondo run beccato: compact caduto sullo skeleton SSR); compact nello STESSO contesto già in demo (viaggio utente reale: opt-in una volta, poi widget) con probe sul CONTENUTO («Finestra di 5 ore», il widget non mostra né scheda né badge); NUOVA cattura modalita-kiosk.png con stato kiosk seminato via add_init_script (rotazione attiva a 30 s, chiave mm-dash-kiosk-v1) e verifica nel body di «Rotazione tra schermate» (I133) e «prossima schermata tra» (I132) prima dello scatto
+- CATTURA (dev server :3000, rotte API bloccate ADR-8, nessuna chiave, nessuna scrittura su produzione): 5 PNG retina 2880×1800 rigenerati (hero-dashboard, sezione-grafico, sezione-analisi, sezione-diagnostica, modalita-compatta) + NUOVO modalita-kiosk.png + demo.gif riassemblata (19 frame, 896 KB, script Task 48 riusato); cattura definitiva rieseguita DOPO il bump versione perché la barra kiosk e il footer mostrano APP_VERSION
+- VERIFICA VISIVA: hero con reset demo al blocco fisso UTC 16:00:00 e curva a sega (I125), grafico con verdetto «Al ritmo della finestra in corso» (I127) e pace I31, compatta coerente I73, kiosk completo (etichetta «Rotazione tra schermate», hint ciclo, countdown, dimming, uscita Esc — I87/I132/I133); l'analisi in demo mostra lo stato vuoto PER COSTRUZIONE (I124: i punti demo sono esclusi da tutte le analisi, verificato in analysis-panel.tsx) — la didascalia README lo dichiara e la sezione mostra la Diagnostica del monitor con l'orologio dei reset
+- AUDIT +3 check I134 → 679/679 PASS 0 scoperte (simbolo «Prova la demo» in github-assets.py, simbolo modalita-kiosk nello script, simbolo modalita-kiosk\.png in README); badge audit README 676→679 (check contatore I105 auto-allineato), §Qualità 679 + presidio I134
+- DOCS: docs/04 §3 riga I134 (provenienza: verifica utente + autorizzazione «procedi con tutte 4 le proposte», ciclo suggerito→autorizzato→implementato) + §8 changelog in cima; README §Screenshot rifatto (griglia 2×2 + riga kiosk, nota I124); versione «2026-10-31 · I134» (unico tocco a src/: il marcatore)
+- PROTOCOLLO (exit REALE): tsc 0, lint 0, suite 644/644 (2332 asserzioni, 66 file), audit 679/679 PASS 0 scoperte; dipendenze intatte (nessuna modifica a package.json) — NESSUNA azione server richiesta (nessuno schema toccato)
+
+Stage Summary:
+- Gli asset visivi sono tornati a essere SPECCHIO del progetto: demo fedele alle finestre (I125), verdetto con base dichiarata (I127), kiosk con la sua immagine (I87/I132/I133) — e la pipeline di cattura è I126-aware: la demo è una scelta esplicita anche nelle catture, con probe affidabili
+- Lezione di sessione: due false partite beccate dai probe (il badge «dati simulati» presente nella copia della scheda I126; lo skeleton SSR prima dell'idratazione) — i segnali affidabili sono i SELETTORI di ruolo e il contenuto specifico, mai il testo del body da solo

diff --git a/scripts/verifiche/esiti/audit-latest.md b/scripts/verifiche/esiti/audit-latest.md
@@ -1,6 +1,6 @@
-# Audit implementazioni — 2026-10-31T12:01:48.698Z
+# Audit implementazioni — 2026-10-31T13:03:01.379Z
 
-- Verifiche totali: **676** · PASS: **676** · FAIL: **0**
+- Verifiche totali: **679** · PASS: **679** · FAIL: **0**
 - Item ✅ in docs/04 senza verifiche dedicate (SCOPERTE): nessuno
 
 | Item | Verifica | Tipo | Esito | Dettaglio |
@@ -680,6 +680,9 @@
 | I133 | hint con rotazione disattivata: distingue lo stato spento (solo cambio manuale coi bottoni a fianco) dal ciclo automatico (src/components/kiosk-bar.tsx) | simbolo | PASS | — |
 | I133 | title esplicativo sul selettore dell'intervallo + aria-label «Intervallo di rotazione delle schermate»: il selettore spiega se stesso (src/components/kiosk-bar.tsx) | simbolo | PASS | — |
 | I133 | test di componente: etichetta esplicita + aria-label switch, hint ciclo/spento mutuamente esclusi, title del selettore, countdown allineato a «prossima schermata tra» (tests/components/kiosk-bar.test.tsx) | simbolo | PASS | — |
+| I134 | cattura I126-aware: la demo NON è più il default (I126) e un contesto fresco mostra la scheda di setup — la pipeline clicca esplicitamente «Prova la demo» e verifica il badge «dati simulati» dopo il click; il badge da solo non basta come segnale: la copia della scheda I126 lo contiene lei stessa (scripts/github-assets.py) | simbolo | PASS | — |
+| I134 | cattura della modalità kiosk/TV (?kiosk=1) con stato kiosk seminato (rotazione attiva a 30 s): lo screenshot mostra la barra I133 («Rotazione tra schermate» + hint del ciclo) e il countdown I132 («prossima schermata tra Ns»), verificati nel body prima dello scatto (scripts/github-assets.py) | simbolo | PASS | — |
+| I134 | lo screenshot della modalità kiosk è referenziato nel README: la funzionalità di punta I87/I132/I133 ha ora una visuale nella sezione Screenshot, accanto ai 4 PNG della dashboard (README.md) | simbolo | PASS | — |
 | I111 | APP_VERSION allineata al changelog canonico (docs/04 §8, riga più recente) — regola dell'utente «aggiorna sempre la versione», ora presidiata dall'audit e non solo dalla memoria | versione | PASS | — |
 
-Verdetto: **PASS** (676 pass, 0 fail, 0 scoperte)
+Verdetto: **PASS** (679 pass, 0 fail, 0 scoperte)
